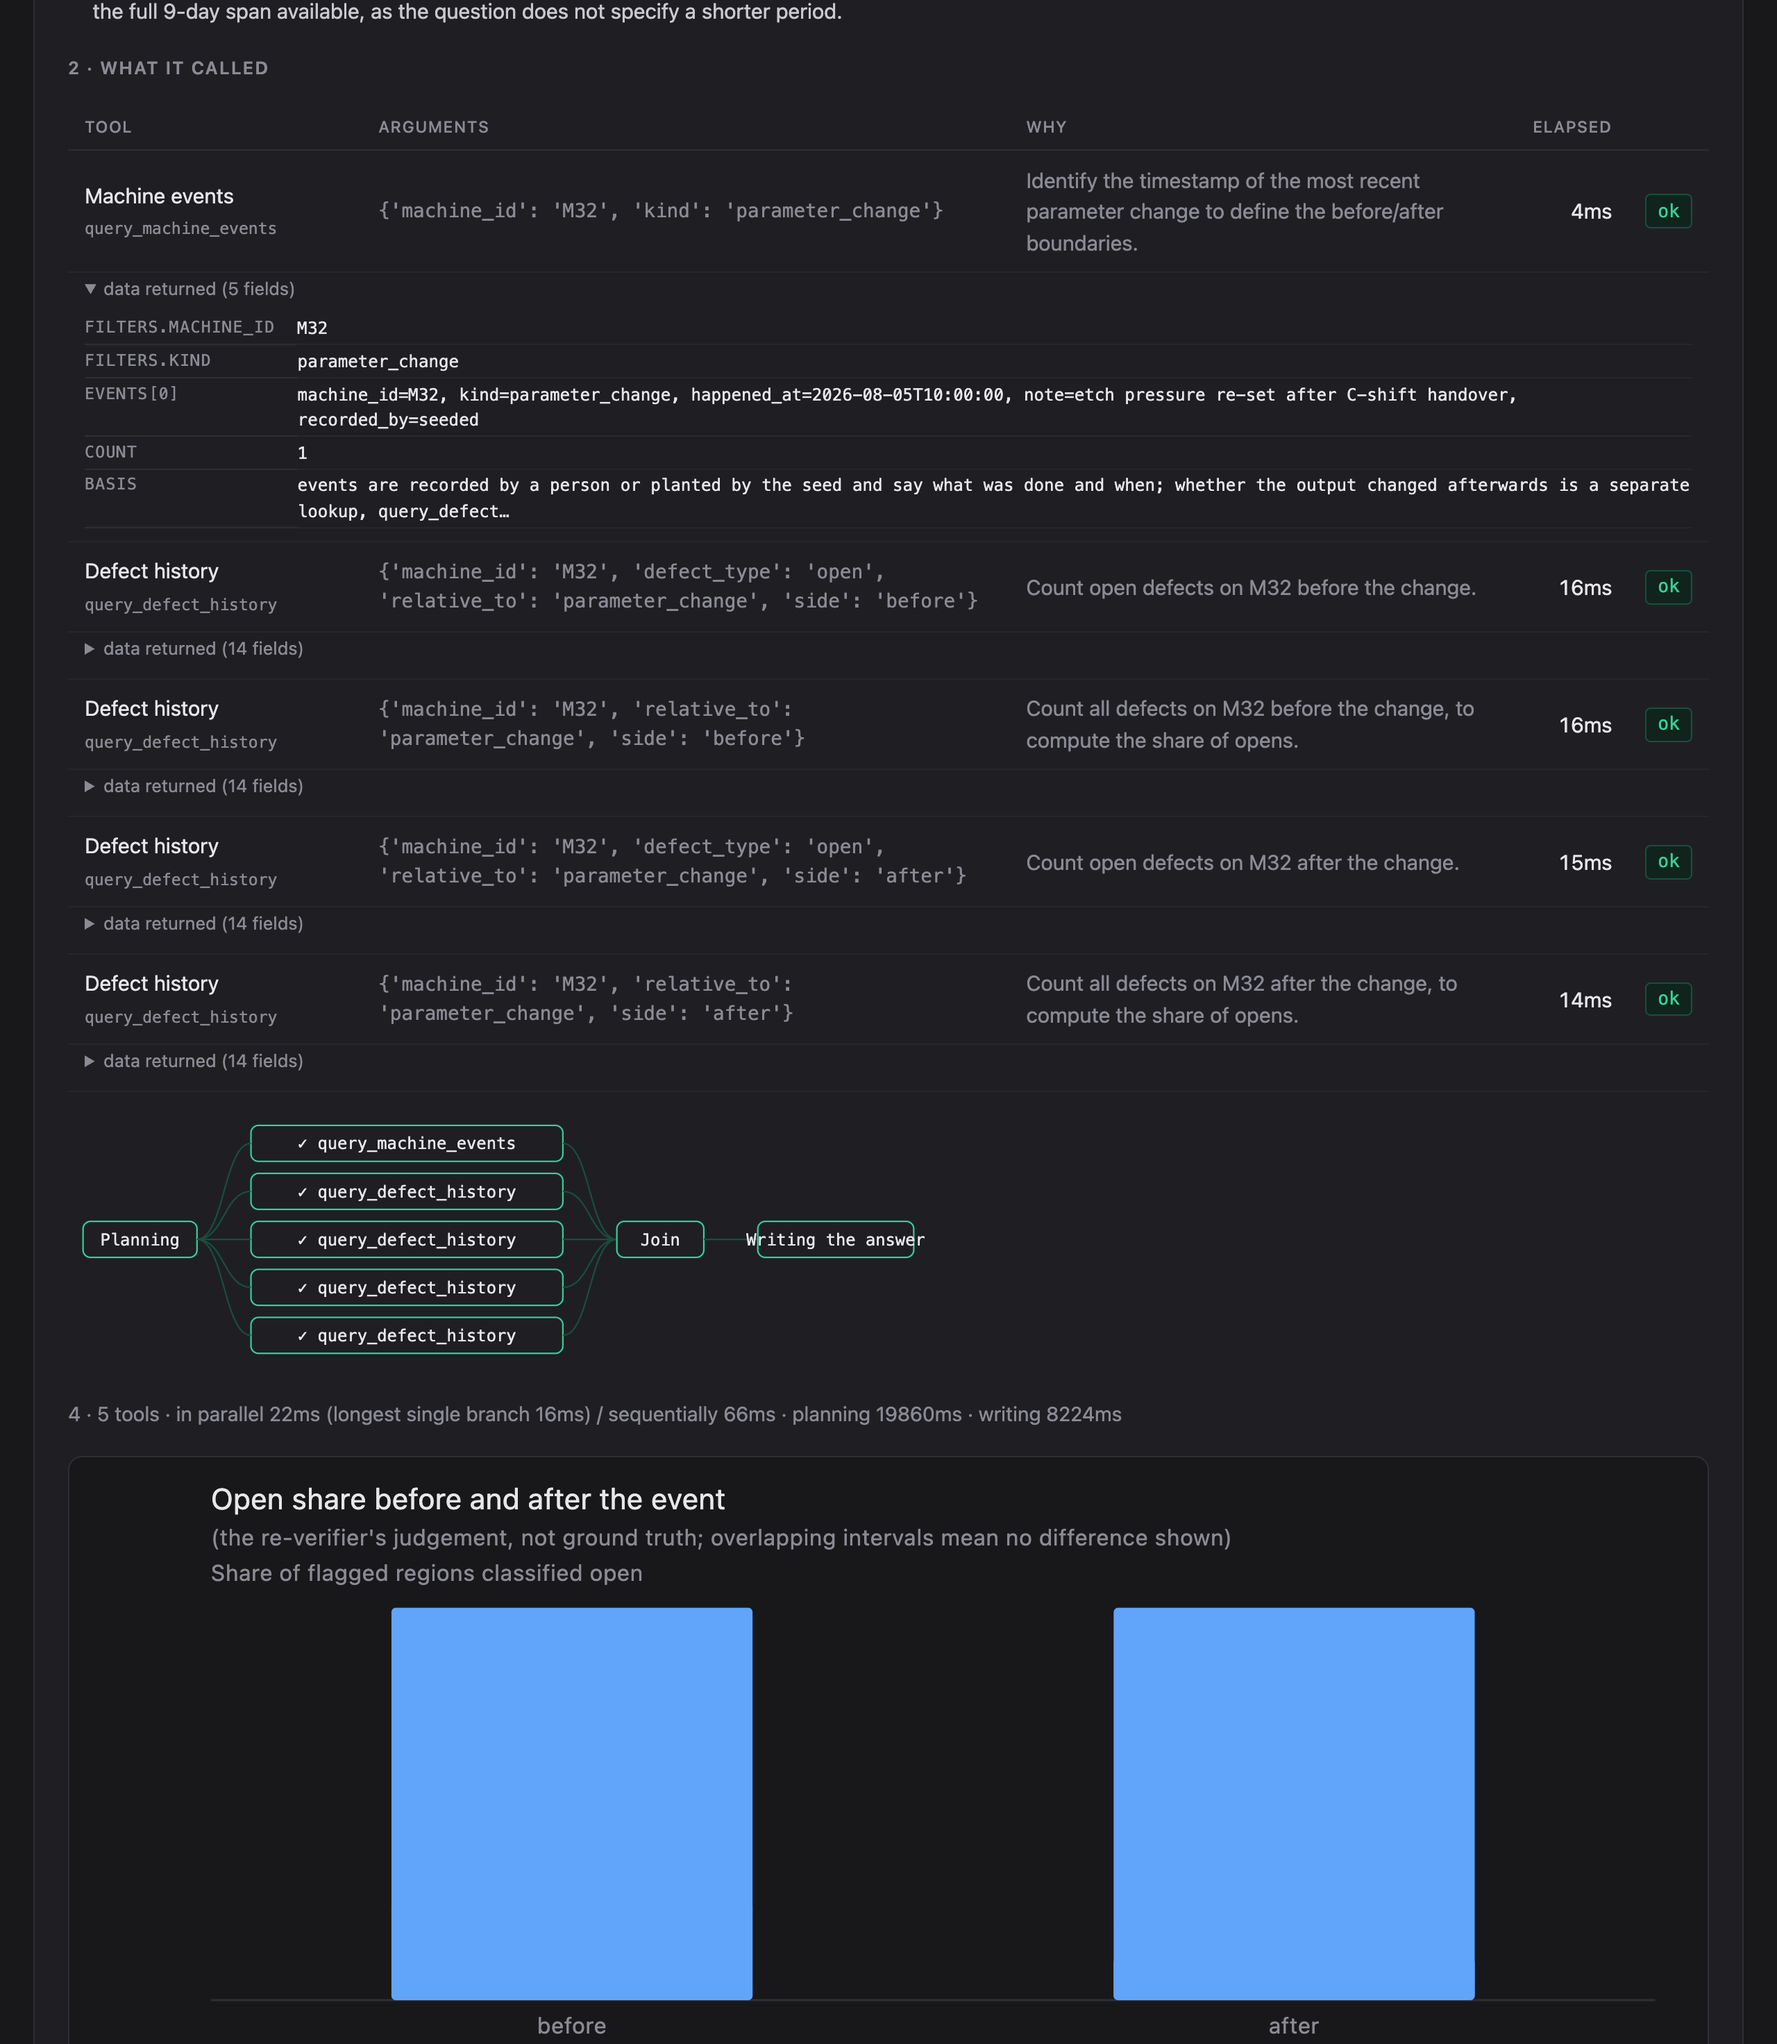
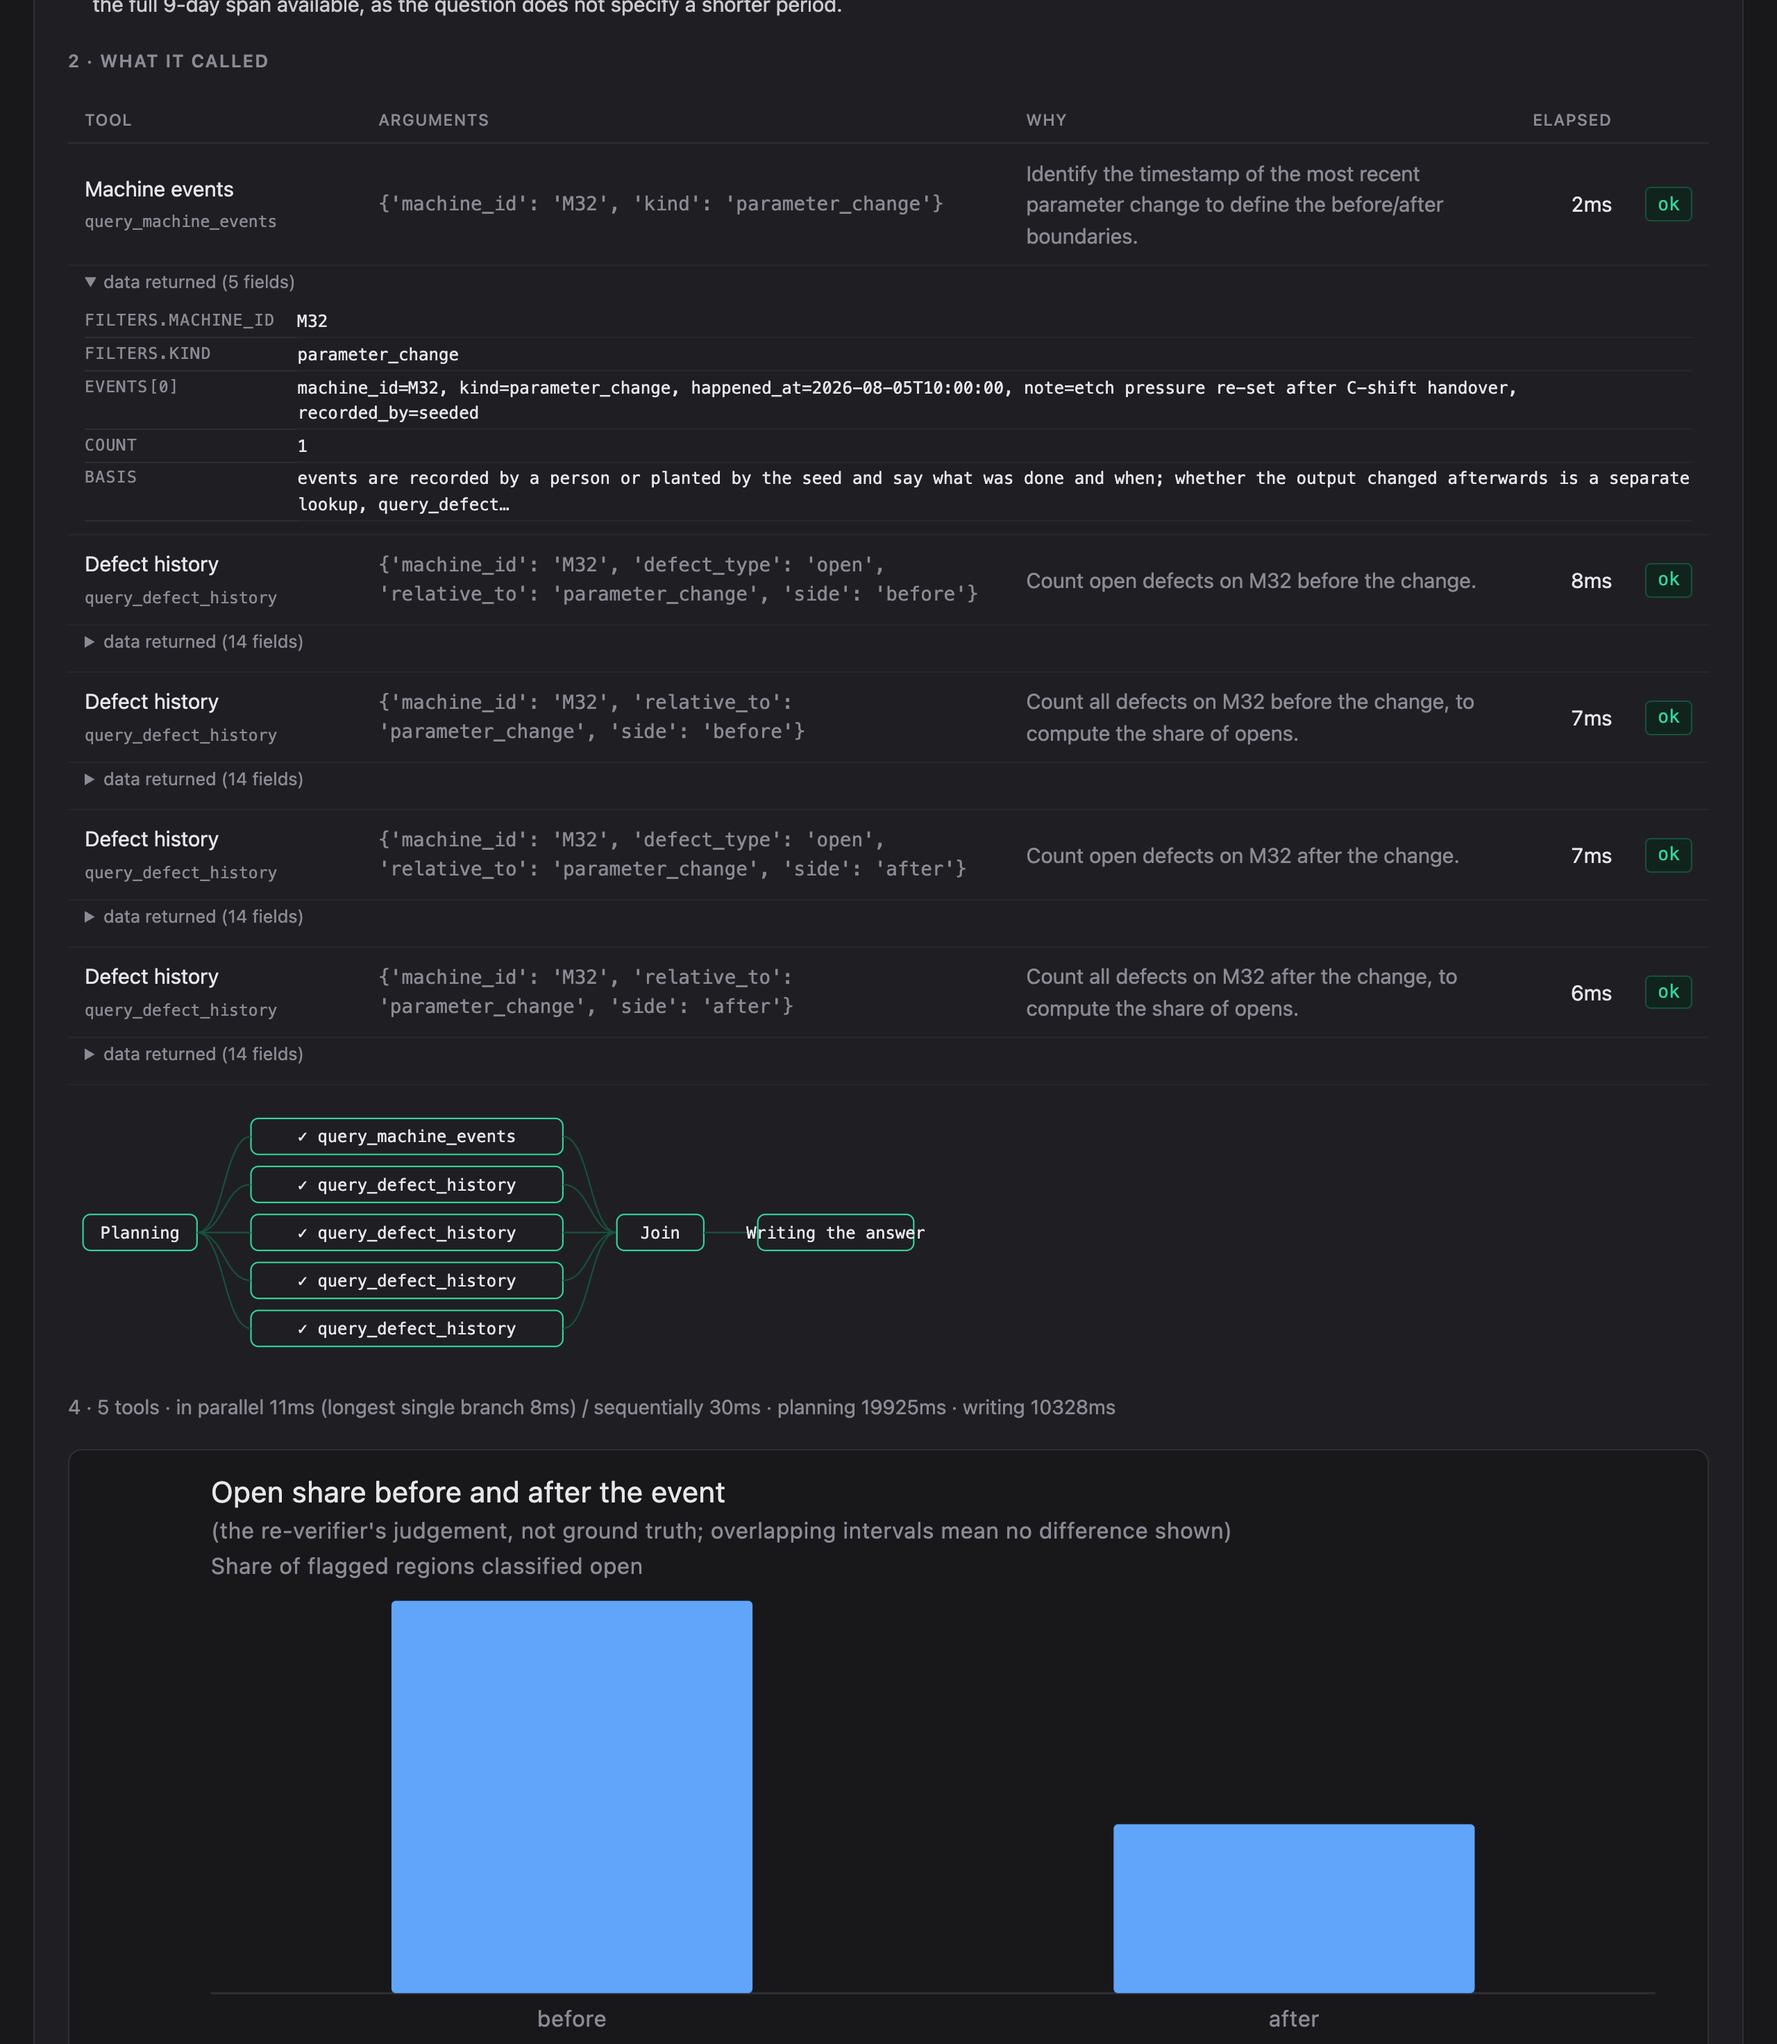
A window filtered to one class reports no share of opens
The planner sometimes splits 'did the open share move' into five calls --
the event, then opens and all defects on each side. Inside a window filtered
to open the share of opens is 1 by construction, and the chart drew two full
bars over prose that had computed 25% to 11% from the counts. The filtered
window keeps its counts and carries the reason instead of a value; the chart
draws from the unfiltered pair, and the test composes the five-call shape.

diff --git a/tests/test_event_windows.py b/tests/test_event_windows.py
@@ -137,3 +137,47 @@ def test_the_planners_domain_for_relative_to_is_the_recorded_kinds(store):
     domains = store_domains()
     assert domains["relative_to"] == {"parameter_change"}
     assert domains["side"] == set(production.SIDES)
+
+
+def test_a_window_filtered_to_one_class_reports_no_open_share(store):
+    """The share of opens inside a window filtered to `open` is 1 by
+    construction, and inside one filtered to `short` it is 0. A planner that
+    split the question into "opens before" and "all defects before" got a
+    chart of two full bars from exactly this on 2026-08-28. The filtered
+    window keeps its counts and says why the share is not there."""
+    filtered = production.query_defect_history(
+        machine_id="M32", relative_to="parameter_change", side="before", defect_type="open"
+    )
+    unfiltered = production.query_defect_history(
+        machine_id="M32", relative_to="parameter_change", side="before"
+    )
+
+    assert filtered["open_share"]["value"] is None
+    assert "by construction" in filtered["open_share"]["basis"]
+    assert filtered["defects_total"] == filtered["by_class"]["open"]
+    assert 0 < unfiltered["open_share"]["value"] < 1
+
+
+def test_the_chart_draws_only_the_unfiltered_windows(store):
+    """Five-call plans -- events, then opens and all-defects on each side --
+    must still chart as two bars, before and after, from the unfiltered pair."""
+    from aoi_agent.analysis.charts import chart_spec_for
+
+    calls = [
+        dict(machine_id="M32", relative_to="parameter_change", side="before", defect_type="open"),
+        dict(machine_id="M32", relative_to="parameter_change", side="before"),
+        dict(machine_id="M32", relative_to="parameter_change", side="after", defect_type="open"),
+        dict(machine_id="M32", relative_to="parameter_change", side="after"),
+    ]
+    results = [
+        {"tool": "query_defect_history", "args": c, "ok": True,
+         "data": production.query_defect_history(**c)}
+        for c in calls
+    ]
+
+    spec = chart_spec_for(results)
+
+    assert spec and spec["title_key"] == "chart.title.open_share_around_event"
+    points = spec["series"][0]["points"]
+    assert [p["x"] for p in points] == ["before", "after"]
+    assert points[0]["y"] > points[1]["y"], "opens fall after the event in this store"

diff --git a/src/aoi_agent/mcp_servers/production.py b/src/aoi_agent/mcp_servers/production.py
@@ -168,17 +168,33 @@ def query_defect_history(
         low, high = wilson(opens, total)
         out["event_at"] = anchor.isoformat()
         out["flagged_regions"] = flagged
-        out["open_share"] = {
-            "value": round(opens / total, 4) if total else None,
-            "interval_95": [round(low, 4), round(high, 4)],
-            "basis": (
-                "share of the defects the re-verifier confirmed in this window "
-                "that it classified as open (false calls are not in the "
-                "denominator); the interval is a Wilson interval on that "
-                "count, and two windows whose intervals overlap have not been "
-                "shown to differ"
-            ),
-        }
+        if defect_type:
+            # A window filtered to one class has a share of opens that is 1 or
+            # 0 by construction, and a planner that splits the question into
+            # "opens before" and "all defects before" would otherwise get a
+            # chart of two full bars. The number is not reported; the reason
+            # is, so the prose can say why and the chart draws only the
+            # unfiltered windows.
+            out["open_share"] = {
+                "value": None, "interval_95": None,
+                "basis": (
+                    f"not reported: this window is filtered to {defect_type!r}, "
+                    "so the share of opens in it is 1 or 0 by construction; "
+                    "the share is on the unfiltered window for the same side"
+                ),
+            }
+        else:
+            out["open_share"] = {
+                "value": round(opens / total, 4) if total else None,
+                "interval_95": [round(low, 4), round(high, 4)],
+                "basis": (
+                    "share of the defects the re-verifier confirmed in this window "
+                    "that it classified as open (false calls are not in the "
+                    "denominator); the interval is a Wilson interval on that "
+                    "count, and two windows whose intervals overlap have not been "
+                    "shown to differ"
+                ),
+            }
     return out
 
 

diff --git a/README.zh-TW.md b/README.zh-TW.md
@@ -43,7 +43,7 @@ defect，false call 也是用真的演算法跑出來的，不是編的。
   （PCB-AoI）上 YOLO26n 偵測器找得到 92% 的 defect，但它的信心在同一個預算下只省
   得掉 1.2% 的複判。兩個都是發現，不是缺口——見
   [它在哪裡失效](#它在哪裡失效兩份新資料集兩個不)。
-- **1,274 個測試**，沒有一個呼叫模型或需要 GPU；25 個要磁碟上有資料集，有標記。
+- **1,276 個測試**，沒有一個呼叫模型或需要 GPU；25 個要磁碟上有資料集，有標記。
 
 ## Demo
 
@@ -75,7 +75,7 @@ uv run python -m aoi_agent board 20085294 --queue        # 一片板走整條 fl
 uv run python -m aoi_agent station                       # http://127.0.0.1:8110
 ```
 
-`uv run pytest` 跑 1,274 個測試，不需要模型、GPU 或資料集。所有量測腳本、容器、
+`uv run pytest` 跑 1,276 個測試，不需要模型、GPU 或資料集。所有量測腳本、容器、
 每個指令寫出什麼，在[怎麼跑](#怎麼跑)。
 
 ## 結果
@@ -483,7 +483,7 @@ uv run python -m aoi_agent corrections                   # 作業員推翻 model
 `gpt-oss:20b`）。全部在本機跑，沒有任何東西離開這台機器 —— 在產線上這是要求，不是
 偏好。
 
-**1,274 個測試。** 其中 1,249 個在乾淨 checkout 上就能在 CI 跑完 —— 它們自己在
+**1,276 個測試。** 其中 1,249 個在乾淨 checkout 上就能在 CI 跑完 —— 它們自己在
 tmpdir 裡建 store、建 Chroma collection、建板子，model 是 stub 掉的。另外 25 個要磁碟
 上有資料集，帶 `dataset` marker；CI job 每次跑完都會把它們列出來，因為「測試
 數量默默變少但綠燈照亮」正是那個 job 要防的事。

diff --git a/README.md b/README.md
@@ -51,7 +51,7 @@ real defects, and false calls generated by a real algorithm rather than invented
   (PCB-AoI) a YOLO26n detector finds 92% of defects but its confidence removes
   only 1.2% of review at the same budget. Both are findings, not gaps — see
   [where it stops working](#where-it-stops-working-two-more-datasets-two-refusals).
-- **1,274 tests**, none of which call the model or need a GPU; 25 want the
+- **1,276 tests**, none of which call the model or need a GPU; 25 want the
   dataset on disk and are marked.
 
 ## Demo
@@ -86,7 +86,7 @@ uv run python -m aoi_agent board 20085294 --queue        # one board through the
 uv run python -m aoi_agent station                       # http://127.0.0.1:8110
 ```
 
-`uv run pytest` runs the 1,274 tests with no model, no GPU and no dataset.
+`uv run pytest` runs the 1,276 tests with no model, no GPU and no dataset.
 The full list of measurement scripts, the container, and what each command
 writes is under [Running it](#running-it).
 
@@ -575,7 +575,7 @@ Requires [Ollama](https://ollama.com) with a tool-calling model (`gpt-oss:20b`
 by default). Everything runs locally; nothing leaves the machine, which on a
 production line is a requirement rather than a preference.
 
-**1,274 tests.** 1,249 of them run on a clean checkout in CI — they build their
+**1,276 tests.** 1,249 of them run on a clean checkout in CI — they build their
 own store, their own Chroma collection and their own boards in a tmpdir, and
 stub the model rather than calling it. The other 25 want a dataset on disk and
 carry a `dataset` marker; the CI job lists them by name at the end of

diff --git a/CLAUDE.md b/CLAUDE.md
@@ -55,7 +55,7 @@ scripts/                    gate_check, build_patches, train, report, seed_store
                             analysis_eval, add_operator, render_diagrams,
                             build_detector_patches, crop_reverifier_report,
                             mark_unattributed_resolutions, ...
-tests/                      1,274 tests; dataset-dependent ones behind `-m dataset`
+tests/                      1,276 tests; dataset-dependent ones behind `-m dataset`
 docs/benchmarks.md          every measurement run, newest last
 docs/architecture.md        layers, thresholds and where they come from
 .claude/skills/             project skills -- procedures with gates, not notes
@@ -70,7 +70,7 @@ an error.
 ## Commands
 
 ```bash
-uv run pytest                                    # 1,274 tests, no GPU needed, no model called
+uv run pytest                                    # 1,276 tests, no GPU needed, no model called
 uv run python scripts/gate_check.py              # S0: does differencing make false calls?
 uv run python scripts/gate_check.py --dataset hripcb --split aligned --limit 693 --thresholds 10 15 20 30 45 60 \
     --out eval/results/gate_check_hripcb_aligned.json   # the same gate on photographs (~2 min)
